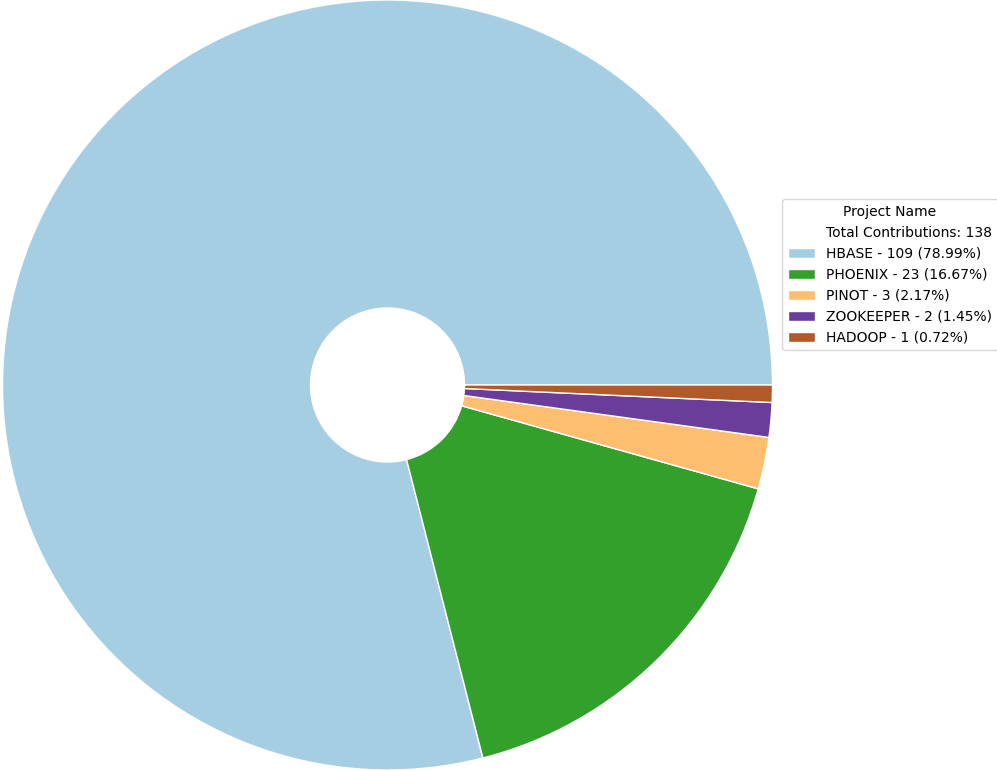
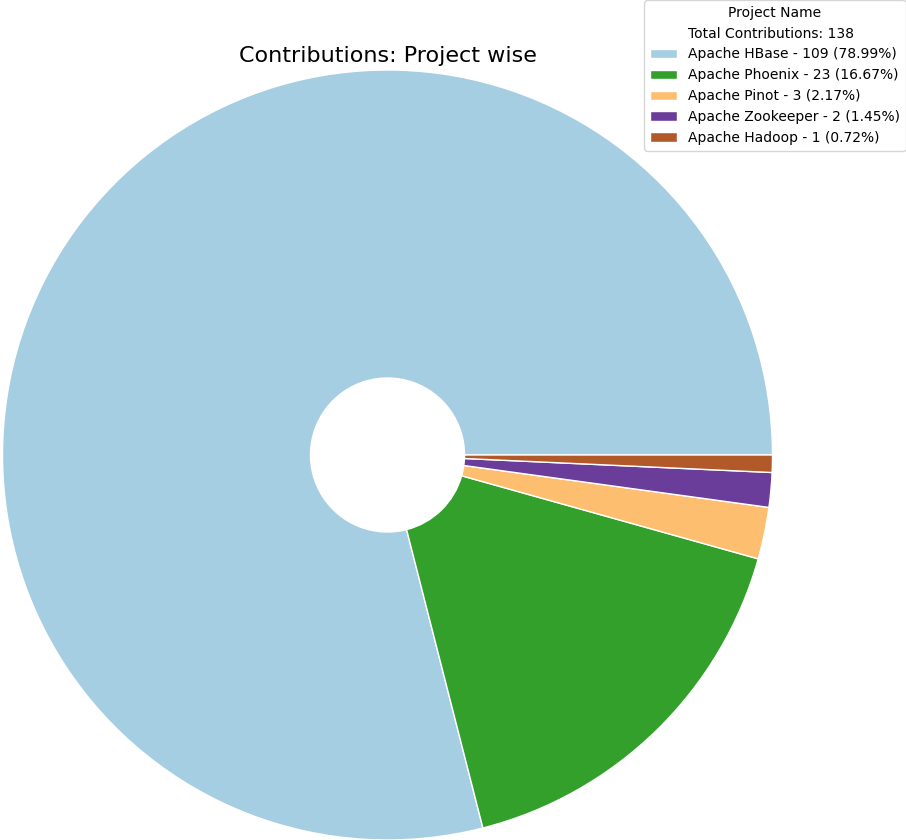
Run workflow and update to latest reports

diff --git a/output/github_contributions_report.md b/output/github_contributions_report.md
@@ -1,40 +1,50 @@
 # OpenSource Contributions Report
 
-Report auto-generated on: 2025-03-19 11:06:17
+Report auto-generated on: 2025-03-19 14:17:43
 
+## Summary
+
+| Metric | Value |
+|--------|-------|
+| Total number of projects | 5 |
+| Total number of repositories | 12 |
+| Total number of contributions | 138 |
+| Number of commits | 128 |
+| Number of pull requests (Open) | 10 |
+
+<div style="display: flex; justify-content: space-around;">
+  <img src="project_wise_contribution.png" alt="Contributions: Project Wise" style="width:40%;">
+  <img src="user_wise_contribution.png" alt="Contributions: User Wise" style="width:40%;">
+</div>
+
+## Summary of Contributions by each project
+
+| Project Name | Commits | Pull Requests (Open) | Overall Contribution |
+|--------------|---------|----------------------|----------------------|
+| Apache HBase | 101 | 8 | 109 |
+| Apache Phoenix | 21 | 2 | 23 |
+| Apache Pinot | 3 | 0 | 3 |
+| Apache Zookeeper | 2 | 0 | 2 |
+| Apache Hadoop | 1 | 0 | 1 |
 ## Summary of Contributions by each user
 
 | User | Commits | Pull Requests (Open) | Overall Contribution |
 |------|---------|----------------------|----------------------|
 | nihaljain | 128 | 10 | 138 |
 
-<img src="user_wise_contribution.png" alt="Contributions: User Wise" style="width:50%;">
-
-## Summary of Contributions by each project
-
-| Project Name | Commits | Pull Requests (Open) | Overall Contribution |
-|--------------|---------|----------------------|----------------------|
-| HBASE | 101 | 8 | 109 |
-| PHOENIX | 21 | 2 | 23 |
-| PINOT | 3 | 0 | 3 |
-| ZOOKEEPER | 2 | 0 | 2 |
-| HADOOP | 1 | 0 | 1 |
-
-<img src="project_wise_contribution.png" alt="Contributions: Project Wise" style="width:50%;">
-
 ## Detailed Contributions
 
 | Project Name | Repository | User | Commits | Pull Requests (Open) | Overall Contribution |
 |--------------|------------|------|---------|----------------------|----------------------|
-| HBASE | apache/hbase | nihaljain | 76 | 5 | 81 |
-| HBASE | apache/hbase-operator-tools | nihaljain | 13 | 0 | 13 |
-| PHOENIX | apache/phoenix-omid | nihaljain | 10 | 0 | 10 |
-| HBASE | apache/hbase-connectors | nihaljain | 7 | 1 | 8 |
-| HBASE | apache/hbase-thirdparty | nihaljain | 5 | 2 | 7 |
-| PHOENIX | apache/phoenix | nihaljain | 5 | 2 | 7 |
-| PHOENIX | apache/phoenix-queryserver | nihaljain | 5 | 0 | 5 |
-| PINOT | pinot-contrib/pinot-docs | nihaljain | 2 | 0 | 2 |
-| ZOOKEEPER | apache/zookeeper | nihaljain | 2 | 0 | 2 |
-| HADOOP | apache/hadoop | nihaljain | 1 | 0 | 1 |
-| PHOENIX | apache/phoenix-thirdparty | nihaljain | 1 | 0 | 1 |
-| PINOT | apache/pinot | nihaljain | 1 | 0 | 1 |
+| Apache HBase | apache/hbase | nihaljain | 76 | 5 | 81 |
+| Apache HBase | apache/hbase-operator-tools | nihaljain | 13 | 0 | 13 |
+| Apache Phoenix | apache/phoenix-omid | nihaljain | 10 | 0 | 10 |
+| Apache HBase | apache/hbase-connectors | nihaljain | 7 | 1 | 8 |
+| Apache HBase | apache/hbase-thirdparty | nihaljain | 5 | 2 | 7 |
+| Apache Phoenix | apache/phoenix | nihaljain | 5 | 2 | 7 |
+| Apache Phoenix | apache/phoenix-queryserver | nihaljain | 5 | 0 | 5 |
+| Apache Pinot | pinot-contrib/pinot-docs | nihaljain | 2 | 0 | 2 |
+| Apache Zookeeper | apache/zookeeper | nihaljain | 2 | 0 | 2 |
+| Apache Hadoop | apache/hadoop | nihaljain | 1 | 0 | 1 |
+| Apache Phoenix | apache/phoenix-thirdparty | nihaljain | 1 | 0 | 1 |
+| Apache Pinot | apache/pinot | nihaljain | 1 | 0 | 1 |
